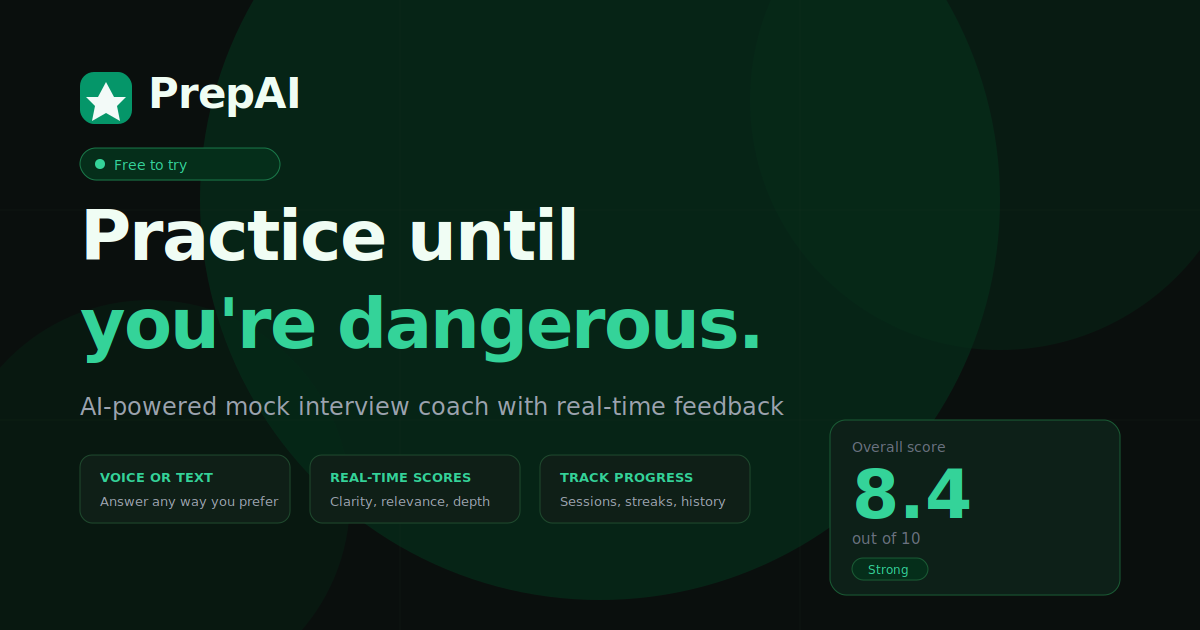
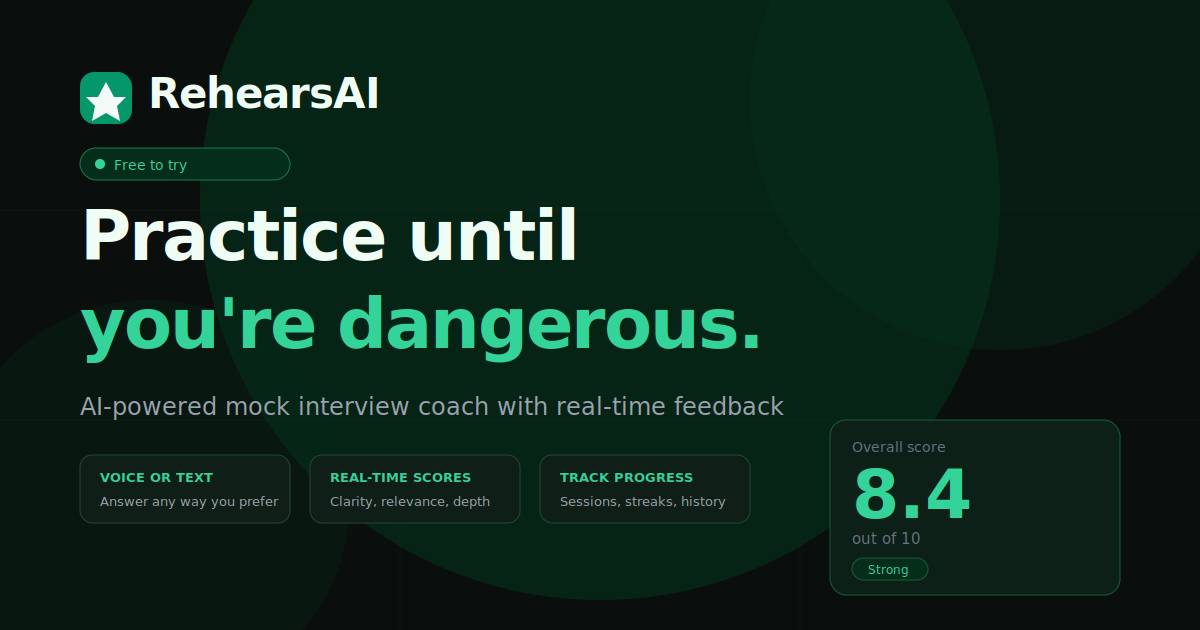
rebrand: PrepAI → RehearsAI across all web files

Changed region(s): [[0.1233, 0.1206, 0.3392, 0.181]]

diff --git a/src/app/page.tsx b/src/app/page.tsx
@@ -257,26 +257,26 @@ export default function Home() {
           </div>
 
           <motion.div
-          className="mt-16 rounded-2xl p-8 text-center"
-          initial={{ opacity: 0, y: 20 }}
-          animate={{ opacity: 1, y: 0 }}
-          transition={{ duration: 0.5, delay: 0.85 }}
-          style={{
-            background: "rgba(255,255,255,0.03)",
-            border: "1px solid rgba(255,255,255,0.08)",
-          }}
-        >
-          <p className="text-xs font-medium uppercase tracking-widest mb-3" style={{ color: "#4b5563" }}>
-            Early access
-          </p>
-          <h2 className="text-2xl md:text-3xl font-bold mb-3" style={{ color: "#f0fdf4" }}>
-            Get notified when we launch
-          </h2>
-          <p className="text-sm mb-6" style={{ color: "#6b7280" }}>
-            Join the waitlist and be first in line when PrepAI opens to everyone.
-          </p>
-          <WaitlistForm />
-        </motion.div>
+            className="mt-16 rounded-2xl p-8 text-center"
+            initial={{ opacity: 0, y: 20 }}
+            animate={{ opacity: 1, y: 0 }}
+            transition={{ duration: 0.5, delay: 0.85 }}
+            style={{
+              background: "rgba(255,255,255,0.03)",
+              border: "1px solid rgba(255,255,255,0.08)",
+            }}
+          >
+            <p className="text-xs font-medium uppercase tracking-widest mb-3" style={{ color: "#4b5563" }}>
+              Early access
+            </p>
+            <h2 className="text-2xl md:text-3xl font-bold mb-3" style={{ color: "#f0fdf4" }}>
+              Get notified when we launch
+            </h2>
+            <p className="text-sm mb-6" style={{ color: "#6b7280" }}>
+              Join the waitlist and be first in line when RehearsAI opens to everyone.
+            </p>
+            <WaitlistForm />
+          </motion.div>
 
           <motion.div
             className="mt-16 rounded-2xl p-8 text-center"
@@ -292,7 +292,7 @@ export default function Home() {
               Human coaches charge £80–200 per session.
             </p>
             <p className="mb-6" style={{ color: "#6b7280" }}>
-              PrepAI gives you the same quality feedback, unlimited practice, for £8/month.
+              RehearsAI gives you the same quality feedback, unlimited practice, for £8/month.
             </p>
             <Link
               href="/register"
@@ -311,7 +311,7 @@ export default function Home() {
 
       <footer className="border-t px-6 py-6 text-center" style={{ borderColor: "rgba(255,255,255,0.06)" }}>
         <p className="text-xs" style={{ color: "#6b7280" }}>
-          © 2026 PrepAI. Built to help everyone interview better.
+          © 2026 RehearsAI. Built to help everyone interview better.
         </p>
       </footer>
 

diff --git a/src/app/layout.tsx b/src/app/layout.tsx
@@ -7,33 +7,33 @@ import Navbar from "@/components/Navbar"
 const geist = Geist({ subsets: ["latin"] })
 
 export const metadata: Metadata = {
-  metadataBase: new URL("https://prep-ai-sepia.vercel.app"),
+  metadataBase: new URL("https://rehearsai.co.uk"),
   title: {
-    default: "PrepAI — AI Mock Interview Coach",
-    template: "%s | PrepAI",
+    default: "RehearsAI — AI Mock Interview Coach",
+    template: "%s | RehearsAI",
   },
   description: "Practice job interviews with an AI coach. Get real-time feedback on every answer — clarity, relevance, and depth. Free to try, no credit card required.",
   keywords: ["mock interview", "interview practice", "AI interview coach", "job interview preparation", "interview feedback"],
-  authors: [{ name: "PrepAI" }],
+  authors: [{ name: "RehearsAI" }],
   openGraph: {
     type: "website",
     locale: "en_GB",
-    url: "https://prep-ai-sepia.vercel.app",
-    siteName: "PrepAI",
-    title: "PrepAI — AI Mock Interview Coach",
+    url: "https://rehearsai.co.uk",
+    siteName: "RehearsAI",
+    title: "RehearsAI — AI Mock Interview Coach",
     description: "Practice job interviews with an AI coach. Get real-time feedback on every answer. Free to try.",
     images: [
       {
         url: "/og-image.png",
         width: 1200,
         height: 630,
-        alt: "PrepAI — AI Mock Interview Coach",
+        alt: "RehearsAI — AI Mock Interview Coach",
       },
     ],
   },
   twitter: {
     card: "summary_large_image",
-    title: "PrepAI — AI Mock Interview Coach",
+    title: "RehearsAI — AI Mock Interview Coach",
     description: "Practice job interviews with an AI coach. Get real-time feedback on every answer. Free to try.",
     images: ["/og-image.png"],
   },
@@ -41,7 +41,7 @@ export const metadata: Metadata = {
     index: true,
     follow: true,
   },
-  verification:{
+  verification: {
     google: "-t4qkQUzQpXCy9d2N2tBXg6cLupxOsXcNnH-y_JiIfg"
   }
 }

diff --git a/src/app/sitemap.xml/route.ts b/src/app/sitemap.xml/route.ts
@@ -1,30 +1,30 @@
 export async function GET() {
-    const xml = `<?xml version="1.0" encoding="UTF-8"?>
-  <urlset xmlns="http://www.sitemaps.org/schemas/sitemap/0.9">
-    <url>
-      <loc>https://prep-ai-sepia.vercel.app/</loc>
-      <lastmod>${new Date().toISOString()}</lastmod>
-      <changefreq>weekly</changefreq>
-      <priority>1.0</priority>
-    </url>
-    <url>
-      <loc>https://prep-ai-sepia.vercel.app/register</loc>
-      <lastmod>${new Date().toISOString()}</lastmod>
-      <changefreq>monthly</changefreq>
-      <priority>0.8</priority>
-    </url>
-    <url>
-      <loc>https://prep-ai-sepia.vercel.app/login</loc>
-      <lastmod>${new Date().toISOString()}</lastmod>
-      <changefreq>monthly</changefreq>
-      <priority>0.5</priority>
-    </url>
-  </urlset>`
-  
-    return new Response(xml, {
-      headers: {
-        "Content-Type": "application/xml",
-        "Cache-Control": "public, max-age=86400",
-      },
-    })
-  }
+  const xml = `<?xml version="1.0" encoding="UTF-8"?>
+<urlset xmlns="http://www.sitemaps.org/schemas/sitemap/0.9">
+  <url>
+    <loc>https://rehearsai.co.uk/</loc>
+    <lastmod>${new Date().toISOString()}</lastmod>
+    <changefreq>weekly</changefreq>
+    <priority>1.0</priority>
+  </url>
+  <url>
+    <loc>https://rehearsai.co.uk/register</loc>
+    <lastmod>${new Date().toISOString()}</lastmod>
+    <changefreq>monthly</changefreq>
+    <priority>0.8</priority>
+  </url>
+  <url>
+    <loc>https://rehearsai.co.uk/login</loc>
+    <lastmod>${new Date().toISOString()}</lastmod>
+    <changefreq>monthly</changefreq>
+    <priority>0.5</priority>
+  </url>
+</urlset>`
+
+  return new Response(xml, {
+    headers: {
+      "Content-Type": "application/xml",
+      "Cache-Control": "public, max-age=86400",
+    },
+  })
+}

diff --git a/src/app/register/page.tsx b/src/app/register/page.tsx
@@ -124,7 +124,7 @@ export default function Register() {
             </svg>
           </div>
           <h1 className="text-2xl font-semibold text-gray-900 tracking-tight">Create account</h1>
-          <p className="text-sm text-gray-500 mt-1">Start practising with PrepAI for free</p>
+          <p className="text-sm text-gray-500 mt-1">Start practising with RehearsAI for free</p>
         </div>
 
         <div className="bg-white rounded-2xl p-8"

diff --git a/src/app/login/page.tsx b/src/app/login/page.tsx
@@ -53,7 +53,7 @@ export default function Login() {
             </svg>
           </div>
           <h1 className="text-2xl font-semibold text-gray-900 tracking-tight">Welcome back</h1>
-          <p className="text-sm text-gray-500 mt-1">Log in to your PrepAI account</p>
+          <p className="text-sm text-gray-500 mt-1">Log in to your RehearsAI account</p>
         </div>
 
         <div className="bg-white rounded-2xl p-8"

diff --git a/src/components/Navbar.tsx b/src/components/Navbar.tsx
@@ -76,7 +76,7 @@ export default function Navbar() {
             <path d="M7 1L9.5 5.5H13L10.5 8.5L11.5 13L7 10.5L2.5 13L3.5 8.5L1 5.5H4.5L7 1Z" fill="white" fillOpacity="0.95"/>
           </svg>
         </div>
-        PrepAI
+        RehearsAI
       </Link>
 
       <div className="flex items-center gap-3">
